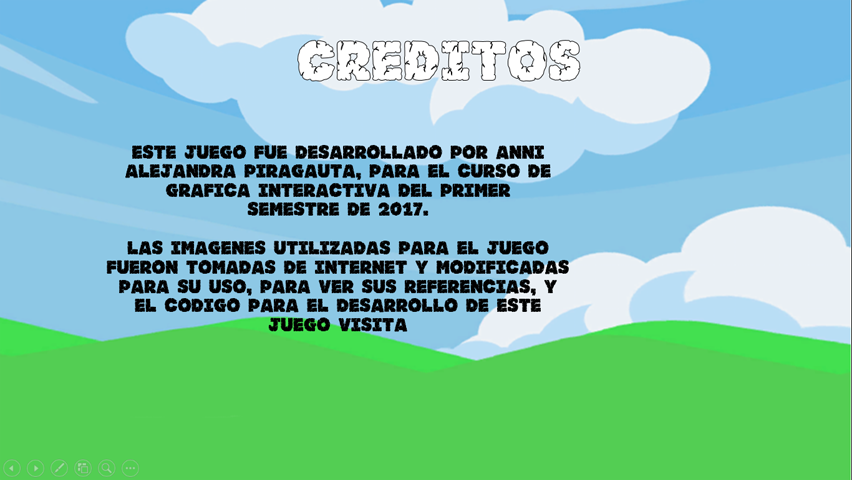
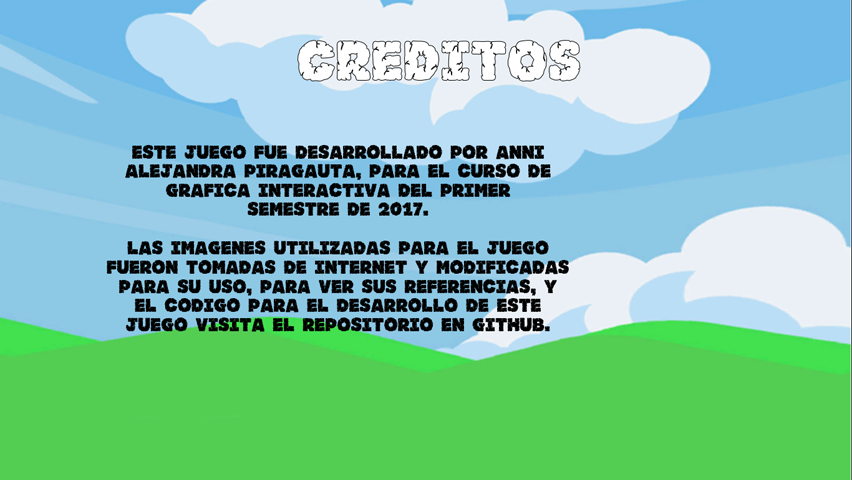
referencia externa a github

Changed region(s): [[0.1526, 0.6562, 0.6408, 0.7188], [0.0, 0.9688, 0.1526, 1.0]]

diff --git a/js/credits.js b/js/credits.js
@@ -4,6 +4,7 @@ var creditsState = {
         game.load.image('cred2', 'src/img/credit2.png');
         game.load.image('next-btn', 'src/img/next.png');
         game.load.image('menu-btn', 'src/img/menu.png');
+        game.load.image('github-btn', 'src/img/github.png');
     },
 
     //pantalla incial en la que muestra las opciones previas al juego
@@ -11,6 +12,18 @@ var creditsState = {
         game.add.tileSprite(0,0,835,532,'cred1');
         //Botones para ver mas acerca de y para regresar al menu
         this.add.button( 610, 190, 'next-btn', this.next, this );
+        this.add.button( 300, 350, 'github-btn', this.git, this );
+        // baseurl="http://www.facebook.com?"
+        // function buildURL(item)
+        // {
+        //     item.href=baseurl+window.location.href;
+        //     return true;
+        // }
+    },
+
+    //Abre nueva ventana hacia el repositorio en github
+    git: function(){
+        window.open("https://github.com/annipi/game", "_blank");
     },
 
     //Se regresa al estado de menu
